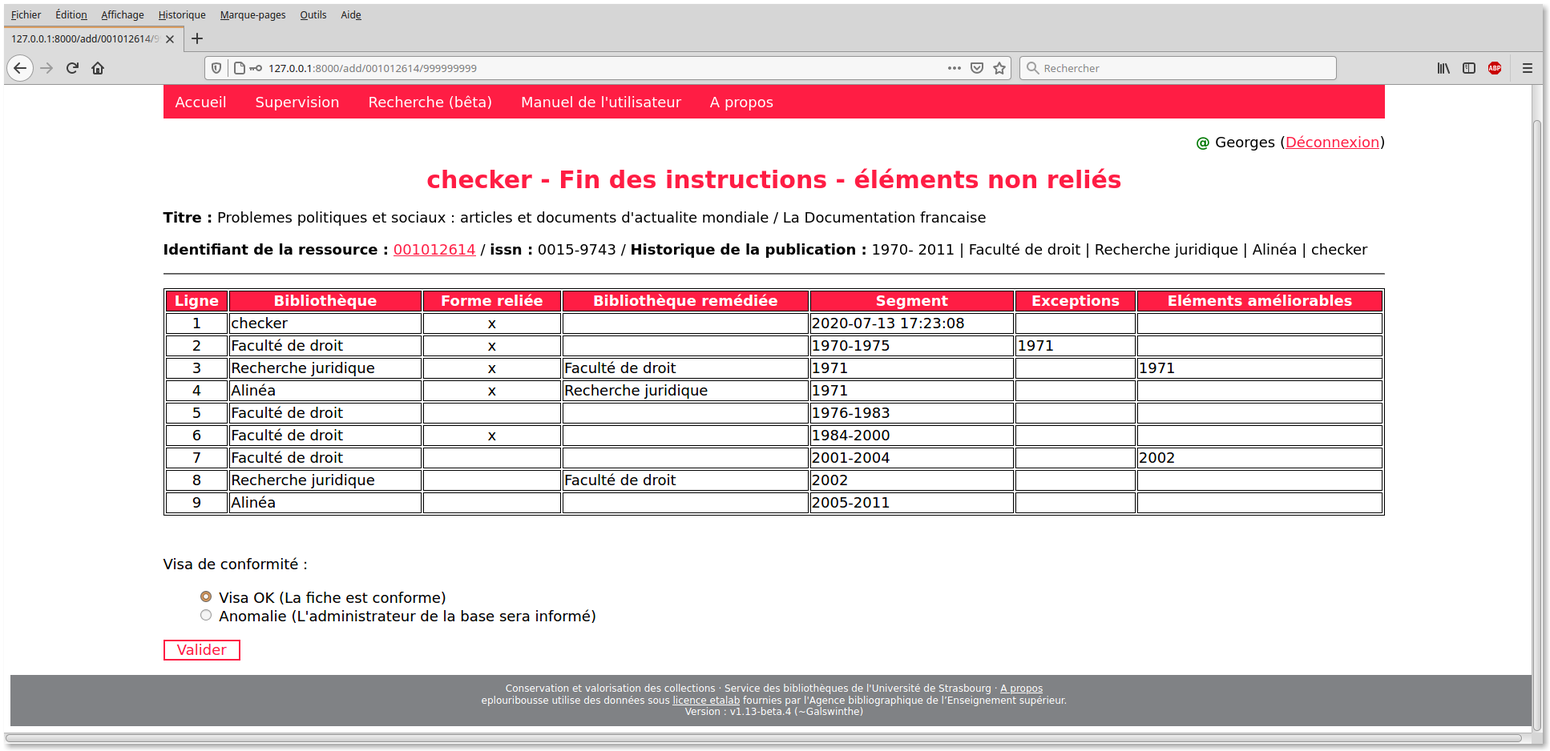
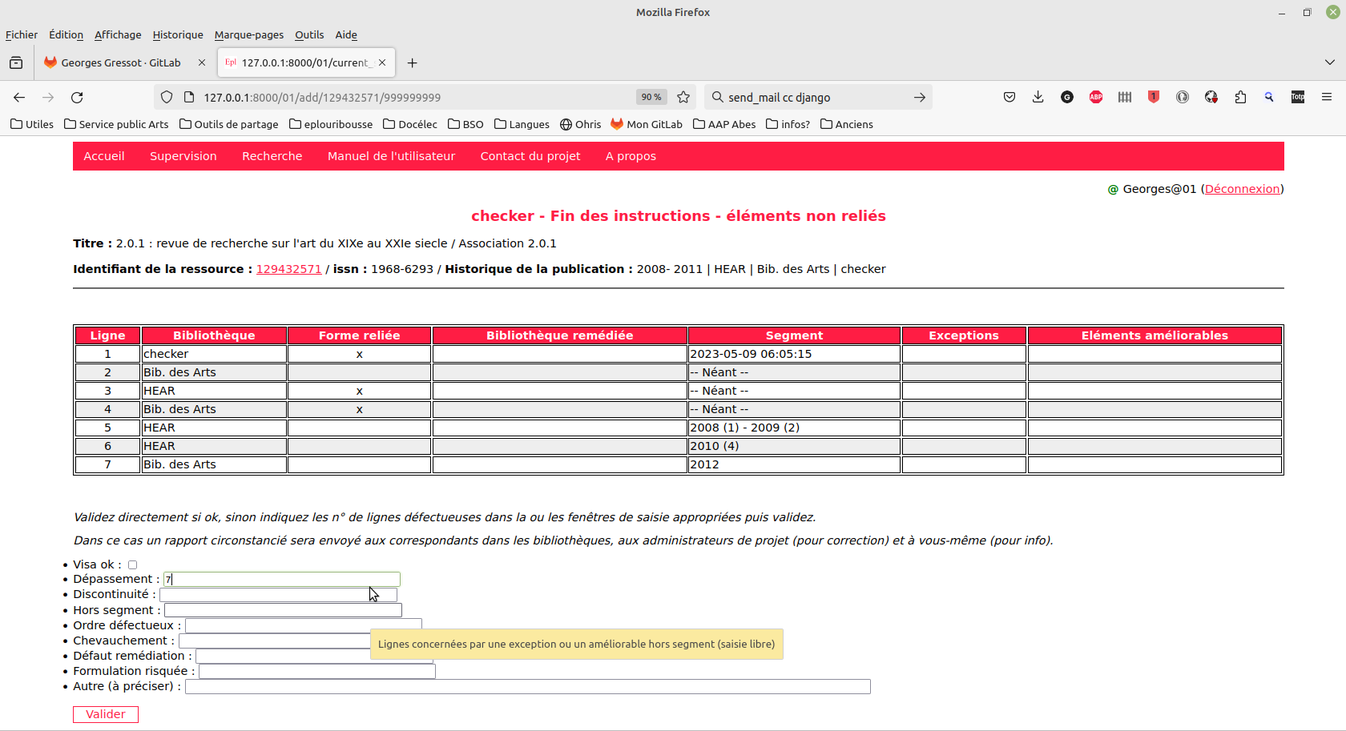
ticket #55

diff --git a/static/doc/html/searchindex.js b/static/doc/html/searchindex.js
@@ -1,1 +1,1 @@
-Search.setIndex({"docnames": ["0", "1", "2", "3", "3_1", "3_2", "3_3", "3_4", "4", "5", "6", "index"], "filenames": ["0.rst", "1.rst", "2.rst", "3.rst", "3_1.rst", "3_2.rst", "3_3.rst", "3_4.rst", "4.rst", "5.rst", "6.rst", "index.rst"], "titles": ["Pr\u00e9ambule", "Pr\u00e9sentation g\u00e9n\u00e9rale", "Pages d\u2019accueil", "Fonctionnalit\u00e9s", "Positionnement", "Arbitrage", "Instruction", "Edition", "Suivi de projet", "Administration", "Langues", "Documentation d\u2019eplouribousse"], "terms": {"eplouribouss": [0, 1, 9], "appliqu": [0, 1, 2, 9, 10, 11], "web": [0, 11], "destin": 0, "facilit": [0, 11], "d\u00e9doublon": [0, 1, 11], "p\u00e9riod": [0, 1, 6, 9], "Elle": 0, "a": [0, 1, 2, 4, 5, 6, 9], "d\u00e9velopp": 0, "cour": [0, 1, 2, 4, 6, 8, 9], "mis": [0, 4, 6, 7, 9], "oeuvr": 0, "univers": 0, "strasbourg": [0, 9], "Ce": [0, 4, 6], "adress": [0, 2, 4, 8, 9], "utilis": [0, 1, 2, 4, 6, 8, 10, 11], "Il": [0, 1, 4, 5, 6, 7, 8, 9], "comprend": 0, "pr\u00e9sent": [0, 2, 3, 9, 11], "g\u00e9n\u00e9ral": [0, 6, 11], "architectur": 0, "m\u00e9thod": [0, 1], "princip": [0, 11], "\u0153uvr": [0, 1], "fonctionnal": [0, 2, 4, 9, 11], "mani": [0, 1, 6, 9, 10], "Les": [0, 1, 2, 4, 6, 7, 8, 9], "cop": [0, 4, 9], "\u00e9cran": 0, "peuvent": [0, 1, 2, 6, 7, 9], "correspondr": [0, 6], "total": 0, "derni": [0, 4, 6, 7, 8, 9], "version": 0, "cel": [0, 3, 4, 6, 8, 9], "san": [0, 1, 8, 9], "cons\u00e9quent": 0, "Au": [0, 9], "sein": 0, "projet": [0, 1, 4, 11], "particuli": [0, 8, 9], "pens": [0, 9], "list": [0, 2, 3, 4, 5, 6, 9, 11], "diffus": [0, 2, 9], "accessibl": [0, 8, 9, 10], "depuis": [0, 7, 8, 9], "pag": [0, 1, 4, 5, 6, 7, 8, 9, 10, 11], "accueil": [0, 4, 5, 6, 7, 8, 9, 10, 11], "Pour": [0, 1, 8, 9], "plus": [0, 1, 2, 4, 7, 9], "larg": 0, "non": [0, 1, 2, 4, 6, 8, 9], "li": [0, 9], "forum": 0, "attendr": [1, 3, 9], "\u00eatre": [1, 2, 4, 6, 7, 8, 9], "confront": 1, "satur": 1, "espac": 1, "stockag": [1, 9], "biblioth\u00e9cair": 1, "pr\u00e9occup": 1, "bon": [1, 6, 9], "gestion": [1, 11], "Le": [1, 2, 4, 5, 6, 8, 9, 10], "d\u00e9sherbag": 1, "collect": [1, 4, 5, 6, 7, 8, 9], "fait": [1, 2, 4, 6, 9], "part": [1, 2, 4, 6, 9, 10], "premi": [1, 5, 6, 7, 9], "chef": 1, "doublon": [1, 4], "\u00e9gard": 1, "savent": 1, "bien": [1, 4, 5, 6, 7], "efficac": [1, 9], "autr": [1, 3, 4, 5, 6, 7, 8, 9, 10], "typ": [1, 9], "docu": 1, "imprim": 1, "con\u00e7u": 1, "aid": [1, 2, 9, 10], "instruir": [1, 6, 9], "dan": [1, 2, 3, 4, 5, 6, 7, 9, 10, 11], "ensembl": [1, 2, 3, 4, 6, 7, 9, 11], "bibliothequ": [1, 2, 3, 4, 5, 6, 7, 8, 9, 11], "Un": [1, 2, 4, 8, 9], "pet": 1, "mot": [1, 2, 9], "tout": [1, 2, 3, 4, 5, 6, 9, 10, 11], "abord": 1, "concern": [1, 4, 9], "nom": [1, 2, 6, 7, 8, 9], "C": [1, 2, 9], "form": [1, 6], "franchouillard": 1, "d\u00e9but": [1, 3, 4, 6, 8, 9], "express": 1, "latin": 1, "e": [1, 4, 9], "plvribv": 1, "vnvm": 1, "dont": [1, 4, 6, 7, 8, 9], "traduct": [1, 10], "litt\u00e9ral": 1, "ser": [1, 2, 4, 6, 9, 10], "plusieur": [1, 4, 9], "pr\u00e9cis": 1, "permet": [1, 2, 4, 8, 9], "r\u00e9alis": [1, 9], "agit": [1, 9], "revu": [1, 11], "candidat": [1, 3, 8], "reconstitu": 1, "seul": [1, 2, 6, 9], "uniqu": [1, 4, 6, 9], "auss": [1, 6], "complet": [1, 3, 6, 7, 8, 9], "reli": [1, 6, 8, 9], "possibl": [1, 2, 3, 4, 5, 6, 7, 8, 9], "\u00e9l\u00e9ment": [1, 2, 4, 6, 8, 9], "\u00e9par": 1, "disposent": 1, "particip": [1, 6, 7, 9], "oper": [1, 4], "moteur": 1, "desserv": 1, "jusqu": [1, 6, 9], "100": 1, "chacun": [1, 3, 9], "support": 1, "bas": [1, 4, 6, 8, 11], "nomm": 1, "model": 1, "db": [1, 9], "o\u00f9": [1, 4, 6, 7, 8, 9], "suit": [1, 4], "deux": [1, 5, 6, 8, 9, 10], "chiffr": [1, 8, 9], "i": [1, 4, 9], "00": [1, 8], "99": [1, 4, 8], "dit": [1, 3, 9], "opposit": 1, "central": [1, 4], "sert": 1, "quant": [1, 4], "authentif": [1, 11], "commun": [1, 9], "L": [1, 4, 5, 6, 7, 8, 9, 10], "acces": [1, 4, 5, 6, 7, 8, 9], "lien": [1, 2, 4, 5, 6, 8, 9, 10], "renvoi": [1, 4, 9], "doit": [1, 4, 6, 9], "selon": [1, 8, 9], "cibl": 1, "libr": [1, 9], "autoris": [1, 9], "elles": [1, 3, 9], "strict": 1, "requis": [1, 4, 9], "cas": [1, 4, 5, 6, 7, 9], "modif": [1, 6, 9], "peut": [1, 4, 6, 8, 9], "r\u00e9sult": [1, 3, 6, 8, 9, 11], "appel": [1, 2, 5, 8, 9], "exig": 1, "simpl": [1, 4, 9, 10], "\u00e9dit": [1, 2, 3, 6, 7, 8, 9], "administr": [1, 2, 4, 6, 11], "sp\u00e9cif": [1, 8], "modul": [1, 2], "consult": 1, "ouvert": 1, "tous": [1, 6, 8, 9], "Nous": 1, "parton": 1, "hypothes": 1, "polit": [1, 6], "documentair": 1, "suiv": [1, 2, 3, 4, 6, 9, 11], "reconstituent": 1, "conservent": 1, "constitu": 1, "mer": [1, 4, 5, 6, 7, 8], "import": [1, 4, 7, 11], "d\u00e9tenu": 1, "La": [1, 2, 4, 6, 9, 11], "comparaison": 1, "qualit": [1, 6], "reliur": [1, 6], "entre": [1, 3, 4, 8, 9, 11], "id\u00e9": [1, 6, 11], "sous": [1, 4, 8], "jacent": 1, "garant": 1, "normal": [1, 6], "absenc": [1, 5], "lacun": [1, 6, 9], "volum": [1, 6], "risqu": 1, "conserv": [1, 6], "moindr": 1, "relativis": 1, "car": 1, "mieux": [1, 9], "arriv": [1, 6, 8], "mal": [1, 6], "puissent": 1, "avantag": [1, 6], "remplac": [1, 6, 9], "fascicul": [1, 6], "couvr": [1, 6], "\u00e9quivalent": [1, 6], "Ces": [1, 2, 3, 9, 10], "trait": [1, 3, 9], "\u00e9pargn": 1, "examen": 1, "revanch": 1, "pr\u00e9par": 1, "recomposit": 1, "temp": [1, 4, 7, 8], "voulu": [1, 4], "impliqu": [1, 7, 9], "On": [1, 2], "aur": [1, 9], "reconnu": [1, 9], "l\u00e0": 1, "action": [1, 2, 4, 5, 8, 9], "cons\u00e9cut": 1, "D": 1, "possed": [1, 4, 6, 9], "susceptibl": 1, "doivent": [1, 4, 6, 9], "position": [1, 2, 3, 5, 6, 8, 9, 11], "rang": [1, 4, 5, 8, 9], "stad": [1, 4], "\u00e9gal": [1, 4, 9], "d\u00e9clar": [1, 4, 6], "fair": [1, 9, 11], "concurrenc": 1, "donc": [1, 3, 4, 6, 9], "exclu": [1, 8, 9], "motif": [1, 4, 9], "d\u00e9pendent": 1, "situat": [1, 4, 5, 9], "signalon": 1, "titr": [1, 8, 9, 10], "exempl": [1, 2, 6, 9], "d\u00e9p\u00f4t": [1, 9], "l\u00e9gal": 1, "venon": 1, "d\u00e9finit": 1, "trivial": 1, "Est": 1, "publiqu": [1, 3, 4, 6, 9], "moin": [1, 9], "Une": [1, 6, 9], "indispens": 1, "Par": [1, 2, 6, 8], "entend": [1, 6], "unit": 1, "identifi": [1, 2, 5, 7, 9], "serial": 1, "correspond": [1, 4, 9], "toujour": [1, 9], "m\u00eam": [1, 2, 3, 4, 6, 9], "entendu": 1, "sen": 1, "cot": [1, 8, 9], "class": [1, 2], "partition": 1, "exist": 1, "assum": 1, "si": [1, 2, 3, 4, 8, 9], "veut": 1, "mettr": 1, "Cette": [1, 4, 6, 8, 9], "proced": 1, "choix": [1, 2, 9], "parm": 1, "possibil": [1, 4, 8, 9], "viabl": 1, "moyen": 1, "grand": 1, "\u00e9chel": [1, 4], "convaincr": 1, "consider": [1, 5, 6, 7, 8, 9], "or": 1, "faut": [1, 6, 8, 9], "absolu": 1, "entendr": [1, 6], "r\u00e9glementair": 1, "exploit": [1, 9], "sourc": 1, "r\u00e9cuper": 1, "sudoc": [1, 4], "sauf": [1, 8], "indiqu": [1, 2, 4, 5, 6, 7, 8, 9], "contrair": [1, 2, 6], "licenc": 1, "etalab": 1, "instanc": [1, 11], "conviendr": 1, "assur": [1, 6], "jeu": 1, "nouveau": [2, 9], "d\u00e9tect": 2, "automat": [2, 4, 6, 9], "lor": [2, 4, 6, 7, 8, 9], "S": [2, 9], "point": [2, 9], "direct": [2, 4, 6, 9], "celui": [2, 9], "ci": [2, 4, 5, 9], "sinon": [2, 4], "chois": [2, 4], "lequel": 2, "appr\u00eat": 2, "travaill": [2, 9], "num\u00e9ro": [2, 6, 8, 9], "lorsqu": [2, 6, 9], "longu": 2, "acced": [2, 4, 9], "souhait": [2, 6, 7, 9], "tap": 2, "mention": [2, 4, 6, 9], "arbitrag": [2, 3, 8, 9, 11], "instruct": [2, 3, 4, 7, 8, 11], "Des": 2, "contr\u00f4l": [2, 8, 11], "effectu": [2, 4, 9], "emp\u00each": 2, "hor": 2, "del": 2, "cliqu": [2, 4, 5, 6, 7, 9], "re\u00e7u": 2, "pr\u00e9c\u00e9dent": [2, 4, 6, 8, 9], "recour": 2, "flech": 2, "retour": [2, 4, 8], "navig": [2, 8], "disponibl": [2, 4, 9], "ver": [2, 4, 9], "outil": [2, 4, 8], "recherch": [2, 9], "ppn": [2, 4, 5, 6, 8, 9], "tableau": [2, 11], "supervis": [2, 8], "manuel": 2, "chang": [2, 10], "votr": [2, 4, 5, 6, 7, 9], "pass": [2, 9], "r\u00e9serv": [2, 4], "droit": [2, 4, 9], "langu": [2, 11], "niveau": [2, 3, 9], "calcul": [2, 4, 8], "\u00e9ventuel": [2, 9], "afin": 2, "anomal": [2, 9], "enregistr": [2, 6, 11], "alor": [2, 8], "email": [2, 9], "signal": [2, 6, 9], "messag": [2, 4, 6, 9], "alert": [2, 4, 6, 9], "couleur": 2, "bleu": 2, "ouvr": [2, 4], "formulair": [2, 4, 8, 9], "figur": [2, 5, 9], "ger": [2, 9], "respons": 2, "pr\u00e9vu": [2, 6, 9], "voir": [2, 4, 9], "loin": [2, 4], "demand": 2, "ajout": 2, "suppress": [2, 6, 9], "contact": [2, 6, 9], "inscrit": 2, "offic": 2, "supprim": [2, 4, 6, 9], "ordre": [3, 4, 8, 11], "sais": [3, 4, 7, 9, 11], "am\u00e9lior": [3, 4, 11], "rem\u00e9di": [3, 11], "r\u00f4l": [3, 11], "check": [3, 9, 11], "edit": [3, 11], "filtr": [3, 5, 8, 11], "fich": [3, 4, 5, 6, 8, 9, 11], "export": [3, 8, 11], "format": [3, 8, 11], "pdf": [3, 11], "appliquent": 3, "n\u00e9cessair": [3, 4, 5, 9], "instruit": [3, 6, 7, 9], "bout": 3, "chaqu": [3, 6, 9], "individuel": 3, "laiss": [3, 4, 9], "suspen": 3, "\u00e9tap": 4, "avant": [4, 6, 9], "fois": [4, 6, 9], "deviennent": 4, "pertinent": [4, 9], "s\u00e9lection": [4, 5, 6, 7], "puis": [4, 5, 6, 7, 9], "valid": [4, 5, 6, 7, 9], "r\u00e9sultat": [4, 5, 6, 8], "ressourc": [4, 5, 6, 7, 8, 9], "attent": [4, 8, 9], "restreindr": [4, 6], "obten": [4, 7, 8, 9], "encor": [4, 9], "modifi": [4, 6, 8, 9], "condit": [4, 9], "\u00e9tat": [4, 6, 9], "initial": [4, 9], "pouv": [4, 6], "exclur": 4, "d\u00e9roul": 4, "valeur": 4, "comment": [4, 9], "dev": 4, "1": [4, 5, 6, 8, 9], "4": [4, 9], "ressent": 4, "comm": [4, 6, 7, 9], "laquel": [4, 6], "viendront": 4, "agreg": 4, "enrich": 4, "tres": 4, "peu": 4, "2": [4, 9], "3": [4, 9], "interm\u00e9diair": 4, "suivr": 4, "arbitrair": 4, "En": [4, 9], "clef": 4, "primair": 4, "rattach": [4, 6, 11], "primary": 4, "key": 4, "pk": 4, "inform": [4, 6, 8], "util": [4, 8, 9], "cliquabl": [4, 9], "notic": 4, "pourr": [4, 9], "serv": [4, 9], "v\u00e9rifi": [4, 6, 9], "num\u00e9ros": 4, "prec": 4, "fin": [4, 6, 8, 9], "ains": 4, "filiat": 4, "p\u00e9riscop": 4, "visualis": 4, "compar": 4, "discuss": 4, "mail": [4, 9], "\u00e9chang": 4, "parcimoni": 4, "conseil": [4, 9], "destinatair": [4, 9], "principal": [4, 8, 9], "ceux": [4, 9], "info": 4, "instructeur": [4, 6, 9], "objet": 4, "port": [4, 6, 9], "corp": 4, "Vous": 4, "commentair": 4, "not": 4, "\u00e9larg": 4, "fen\u00eatr": [4, 7], "coin": 4, "nb": [4, 9], "connexion": 4, "t\u00e9moin": 4, "appara\u00eet": 4, "haut": [4, 7], "gauch": 4, "d\u00e9connect": 4, "crucial": 4, "don": [4, 6, 8, 11], "local": 4, "annul": 4, "lign": [4, 6, 7, 9, 10], "apres": [4, 6, 9], "rappel": 4, "session": 4, "rien": [4, 6], "clic": 4, "lesquel": [4, 6, 7], "moment": [4, 6, 8], "d\u00e9j\u00e0": [4, 9], "D\u00e8s": 4, "x": 4, "activ": [4, 9], "envoi": [4, 9], "revendiquent": 5, "posit": 5, "pris": [5, 6, 9], "aucun": [5, 9], "revendiqu": [5, 6, 9], "dessus": 5, "concurrent": 5, "revend": 5, "attendu": 5, "r\u00e9vis": 5, "\u00e9ch\u00e9": [5, 6, 9], "obtenu": [5, 6, 7, 8], "devient": 6, "d\u00e8s": [6, 9], "divers": [6, 9], "commenc": 6, "segment": 6, "continus": 6, "except": [6, 9], "pres": 6, "dessous": 6, "inser": 6, "nouvel": 6, "logiqu": 6, "chronolog": 6, "bord": [6, 11], "recouvrent": 6, "comprennent": 6, "contributric": 6, "pr\u00e9fer": 6, "d\u00e9fectu": 6, "term": 6, "cec": [6, 9], "problem": 6, "d\u00e9licat": 6, "solut": [6, 9], "relev": [6, 9], "renseign": [6, 9], "obligatoir": 6, "integr": [6, 9], "\u00e9vident": [6, 7, 8, 9], "contribu": [6, 9], "coch": 6, "n\u00e9": 6, "sp\u00e9cifi": 6, "compt": [6, 9], "propr": [6, 9], "distingu": [6, 9], "effet": [6, 9], "confirm": 6, "avoir": [6, 9], "soin": 6, "exactitud": 6, "recevr": 6, "avert": 6, "tour": [6, 9], "venu": [6, 9], "cycl": [6, 8, 9], "second": [6, 9], "v\u00e9rif": [6, 8, 9], "vis": [6, 9], "invalid": 6, "d\u00e9croiss": 6, "concour": 6, "mauv": 6, "quelqu": [6, 9], "chos": [6, 9], "optimal": 6, "cf": [6, 9], "regl": [6, 9], "facult": 6, "phas": 6, "el\u00e9ment": 6, "forc": 6, "v\u00e9rit": 6, "d\u00e9grad": 6, "sait": 6, "meilleur": 6, "rar": 6, "comprom": 6, "contenu": 6, "mesur": [6, 9], "physiqu": 6, "Leur": 6, "limit": [6, 9], "ailleur": 6, "couvrent": 6, "outrepass": 6, "comportent": 6, "interrompus": 6, "champ": [6, 9], "font": 6, "decr": 6, "ordon": 6, "chevauchent": 6, "correct": [6, 11], "lisibl": 6, "coh\u00e9rent": 6, "formul": 6, "proven": 6, "diff\u00e9rent": [6, 9], "footnot": 6, "Ou": 6, "trois": [6, 9], "De": [6, 11], "contr\u00f4leur": 6, "checker": 6, "fonction": [7, 8], "d\u00e9tient": 7, "ast\u00e9risqu": 7, "natur": 7, "rapport": 7, "soign": 7, "propos": [7, 8, 10], "instant": 8, "d\u00e9doubl": 8, "tel": [8, 9], "origin": [8, 10, 11], "\u00e9cart": 8, "compr": [8, 9], "donnent": 8, "encour": 8, "exclus": [8, 9], "occurrent": 8, "etc": [8, 9], "d\u00e9faut": [8, 9], "affich": 8, "alphabet": 8, "perm": 8, "d\u00e9di": 8, "pr\u00e9vaut": 8, "ip": 8, "client": 8, "connect": 8, "about": [8, 9], "csv": [8, 9], "_typedeliste_rcr_autrercr": 8, "nombr": [8, 9], "24": [], "typedel": 8, "signif": 8, "rk": 8, "xrk": 8, "mrk": 8, "arb": 8, "xarb": 8, "arb1": 8, "arb0": 8, "x1arb": 8, "x0arb": 8, "instr": 8, "xinstr": 8, "instr1b": 8, "instrxb": 8, "instr1nb": 8, "instrxnb": 8, "re": 8, "resm": 8, "resnm": 8, "xmoth": 8, "xnomoth": 8, "excl": 8, "faulty": 8, "erron": [8, 9], "all": 8, "originel": 8, "puiss": [8, 9], "entier": [8, 9], "clair": [8, 9], "fichi": [8, 9, 10], "incomplet": [8, 10], "requ\u00eat": 8, "trop": 8, "volumin": 8, "serveur": 8, "retourn": 8, "cod": [8, 9], "erreur": 8, "bandeau": [], "ent\u00eat": [], "conna\u00eetr": [], "rebond": [], "lectur": [8, 9], "popul": 9, "utilitair": 9, "manipul": 9, "recommandon": 9, "brows": 9, "for": 9, "sqlit": 9, "tabl": 9, "http": 9, "sqlitebrows": 9, "org": 9, "contient": [9, 11], "epl_replymail": 9, "django": 9, "situ": 9, "9": 9, "epl_bddadmin": 9, "epl_exclu": 9, "epl_featur": 9, "epl_instruct": 9, "epl_itemrecord": 9, "epl_library": 9, "epl_proj_setting": 9, "epl_project": 9, "epl_utilis": 9, "system": 9, "interfac": 9, "plac": 9, "exemplair": 9, "fourn": 9, "\u00e9labor": 9, "racin": 9, "txt": 9, "voic": 9, "quoi": [9, 11], "superflu": 9, "dat": 9, "vid": 9, "descr": 9, "initialis": 9, "recens": 9, "coupl": 9, "permiss": 9, "pr\u00e9vaudr": 9, "outr": 9, "suffix": 9, "agiss": 9, "no": 9, "reply": 9, "sit": [9, 11], "respect": 9, "deuxiem": 9, "d\u00e9part": 9, "user": 9, "superus": 9, "statut": 9, "is_superus": 9, "rest": 9, "peupl": 9, "synchronis": 9, "cr\u00e9ation": 9, "vu": 9, "admins_adm": 9, "lib_adm": 9, "selectbdd": 9, "hom": 9, "globadm": 9, "multipl": 9, "permettent": 9, "prendr": 9, "facil": [9, 10], "consist": 9, "regroup": 9, "argument": 9, "s\u00e9par": 9, "tir": 9, "r\u00e9el": 9, "art": 9, "bnu": 9, "doubl": 9, "aachen": 9, "kunstblatt": 9, "03963115x": 9, "issn": 9, "05150612": 9, "histor": 9, "1906": 9, "9999": 9, "bh": 9, "16": 9, "37": 9, "501": 9, "883": 9, "etat": 9, "vol": 9, "10": 9, "1916": 9, "17": 9, "1958": 9, "18": 9, "1959": 9, "26": [8, 9], "1962": 9, "34": 9, "1967": 9, "38": 9, "1969": 9, "47": 9, "1976": 9, "77": 9, "1968": 9, "relat": 9, "devront": 9, "cr\u00e9": 9, "aut": 9, "altern": 9, "674821001": 9, "674821001a": 9, "674821001b": 9, "periscop": 9, "affect": 9, "tant": 9, "rcr": 9, "14": 9, "mar": 9, "2023": 9, "privil\u00e9gi": 9, "ext\u00e9rieur": 9, "toutefois": 9, "pr\u00e9alabl": 9, "mod": 9, "priv": 9, "d\u00e9sactiv": 9, "idem": 9, "r\u00e9part": 9, "travail": 9, "magasin": 9, "parit": 9, "pair": 9, "ellips": 9, "partag": 9, "scind": 9, "occup": 9, "parametr": 9, "d\u00e9tail": 9, "lir": 9, "g\u00e9ner": 9, "noreply": 9, "replymail": 9, "gestionnair": 9, "transmet": 9, "flambeau": 9, "extract": 9, "rel\u00e8vent": 9, "intitul": 9, "r\u00e9sum": 9, "pourront": 9, "d\u00e9taillon": 9, "ad": 9, "hoc": 9, "n\u00e9cessitent": 9, "expliqu": 9, "d\u00e9taill": 9, "cadr": 9, "r\u00e9initialis": 9, "recommand": [6, 9], "d\u00e9fin": 9, "d\u00e9coch": 9, "pr\u00e9d\u00e9fin": 9, "restaur": 9, "offert": 9, "recevront": 9, "compris": 9, "surven": 9, "triplon": 9, "occas": 9, "re\u00e7oivent": 9, "avis": 9, "restreint": 9, "passag": 9, "public": 9, "occasion": 9, "actif": 9, "quand": 9, "incoh\u00e9rent": 9, "devr": 9, "incrimin": 9, "host": 9, "current_status": 9, "crois": [8, 9], "sid": [], "reper": [], "r\u00e9curs": 9, "attribu": 9, "itemrecord": 9, "6": 9, "0": 9, "admin": [], "Cet": 9, "certain": 9, "processus": 9, "5": 9, "conform": 9, "potentiel": [], "ensuit": [], "1er": [], "fauss": [], "caus": [], "dysfonction": [], "g\u00ean": [], "dout": [], "intempest": 9, "url": 9, "rejet": 9, "soumis": 9, "pert": 9, "soupl": 9, "pbkdf2": 9, "doc": 9, "djangoproject": 9, "com": 9, "topic": 9, "auth": 9, "password": 9, "sensibl": 9, "n\u00e9gat": 9, "r\u00e9orient": 9, "dehor": 9, "paged": [], "pied": 9, "renvoient": 9, "syst\u00e9mat": 9, "proteg": 9, "contr": 9, "robot": 9, "captch": 9, "ultralight": 9, "attaqu": 9, "malveil": 9, "appropri": 9, "cach": 9, "del\u00e0": 9, "webmaster": 9, "distinct": 9, "gettext": 10, "franc": 10, "actuel": 10, "exp\u00e9rimental": 10, "anglais": 10, "allemand": 10, "extens": 10, "assez": 10, "puisqu": 10, "repos": 10, "fournitur": 10, "classiqu": 10, "po": 10, "compr\u00e9hensibl": 10, "traducteur": 10, "compil": 10, "command": 10, "binair": 10, "mo": 10, "bienvenu": 10, "e\u02c8plu\u02d0r\u026ab\u028a": 11, "jet": 11, "coup": 11, "oeil": 11, "strasbourgeois": 11, "pr\u00e9ambul": 11, "Que": 11, "guid": 11, "entraid": 11, "parl": 11, "aspect": 11, "jurid": 11, "r\u00e9utilis": 11, "r\u00e9glag": 11, "group": 11, "webmast": 11, "s\u00e9cur": 11, "confidential": 11, "fa\u00e7on": 9, "corrig": 9, "bouton": 9, "recalcul": 9, "vaut": 9, "carr": 9, "apparaissent": 9, "\u00eate": 9, "redirig": 9, "savoir": 9, "cross": 8, "avanc": 8, "multicriter": 11}, "objects": {}, "objtypes": {}, "objnames": {}, "titleterms": {"pr\u00e9ambul": 0, "origin": 0, "Que": 0, "contient": 0, "guid": 0, "entraid": 0, "pr\u00e9sent": [1, 7], "g\u00e9n\u00e9ral": [1, 2, 9], "De": 1, "quoi": 1, "parl": 1, "princip": 1, "aspect": 1, "jurid": 1, "r\u00e9utilis": 1, "don": [1, 9], "pag": 2, "accueil": 2, "projet": [2, 8, 9], "fonctionnal": [3, 8], "position": 4, "arbitrag": 5, "instruct": [6, 9], "sais": 6, "ordre": 6, "am\u00e9lior": 6, "rem\u00e9di": 6, "r\u00f4l": [6, 9], "check": 6, "edit": 7, "list": [7, 8], "r\u00e9sult": 7, "filtr": 7, "fich": 7, "export": 7, "format": 7, "pdf": 7, "suiv": 8, "La": 8, "tout": 8, "recherch": [8, 11], "dan": 8, "typ": 8, "disponibl": 8, "crois": [], "tableau": 8, "bord": 8, "administr": 9, "r\u00e9glag": 9, "bas": 9, "import": 9, "utilis": 9, "group": 9, "instanc": 9, "webmast": 9, "gestion": 9, "correct": 9, "enregistr": 9, "rattach": 9, "contr\u00f4l": 9, "s\u00e9cur": 9, "authentif": 9, "confidential": 9, "langu": 10, "document": 11, "eplouribouss": 11, "sommair": 11, "mot": 11, "multicriter": 8}, "envversion": {"sphinx.domains.c": 2, "sphinx.domains.changeset": 1, "sphinx.domains.citation": 1, "sphinx.domains.cpp": 8, "sphinx.domains.index": 1, "sphinx.domains.javascript": 2, "sphinx.domains.math": 2, "sphinx.domains.python": 3, "sphinx.domains.rst": 2, "sphinx.domains.std": 2, "sphinx": 57}, "alltitles": {"Pr\u00e9ambule": [[0, "preambule"]], "Origine": [[0, "origine"]], "Que contient ce guide\u00a0?": [[0, "que-contient-ce-guide"]], "Entraide": [[0, "entraide"]], "Pr\u00e9sentation g\u00e9n\u00e9rale": [[1, "presentation-generale"]], "De quoi parle-t-on ?": [[1, "de-quoi-parle-t-on"]], "Principes": [[1, "principes"]], "Aspects juridiques (R\u00e9utilisation des donn\u00e9es)": [[1, "aspects-juridiques-reutilisation-des-donnees"]], "Pages d\u2019accueil": [[2, "pages-d-accueil"]], "Page d\u2019accueil g\u00e9n\u00e9rale": [[2, "page-d-accueil-generale"]], "Page d\u2019accueil d\u2019un projet": [[2, "page-d-accueil-d-un-projet"]], "Fonctionnalit\u00e9s": [[3, "fonctionnalites"]], "Positionnement": [[4, "positionnement"]], "Arbitrage": [[5, "arbitrage"]], "Edition": [[7, "edition"]], "Liste des r\u00e9sultantes": [[7, "liste-des-resultantes"]], "Filtre": [[7, "filtre"]], "Pr\u00e9sentation des fiches": [[7, "presentation-des-fiches"]], "Export au format pdf": [[7, "export-au-format-pdf"]], "Langues": [[10, "langues"]], "Documentation d\u2019eplouribousse": [[11, "documentation-d-eplouribousse"]], "Sommaire": [[11, "sommaire"]], "Recherche par mots": [[11, "recherche-par-mots"]], "Administration": [[9, "administration"]], "R\u00e9glages des bases de donn\u00e9es (important)": [[9, "reglages-des-bases-de-donnees-important"]], "Utilisateurs et groupes": [[9, "utilisateurs-et-groupes"]], "R\u00f4le de l\u2019administrateur g\u00e9n\u00e9ral de l\u2019instance (webmaster)": [[9, "role-de-ladministrateur-general-de-linstance-webmaster"]], "R\u00f4les des administrateurs de projet (= administrateurs de la base de donn\u00e9es du projet)": [[9, "roles-des-administrateurs-de-projet-administrateurs-de-la-base-de-donnees-du-projet"]], "Gestion des r\u00e9glages du projet": [[9, "gestion-des-reglages-du-projet"]], "Correction des enregistrements (instructions et rattachements)": [[9, "correction-des-enregistrements-instructions-et-rattachements"]], "Contr\u00f4les": [[9, "controles"]], "S\u00e9curit\u00e9": [[9, "securite"]], "Authentification": [[9, "authentification"]], "Confidentialit\u00e9": [[9, "confidentialite"]], "Instruction": [[6, "instruction"]], "Saisie": [[6, "saisie"]], "Ordre d\u2019am\u00e9lioration": [[6, "ordre-damelioration"]], "Rem\u00e9diation": [[6, "remediation"]], "R\u00f4le du \u201cchecker\u201d": [[6, "role-du-checker"]], "Suivi de projet": [[8, "suivi-de-projet"]], "La fonctionnalit\u00e9 \u00ab\u00a0tout\u00a0\u00bb": [[8, "la-fonctionnalite-tout"]], "Recherche dans les listes": [[8, "recherche-dans-les-listes"]], "listes types disponibles": [[8, "id1"]], "Recherche multicrit\u00e8re": [[8, "recherche-multicritere"]], "Tableau de bord": [[8, "tableau-de-bord"]]}, "indexentries": {}})
+Search.setIndex({"docnames": ["0", "1", "2", "3", "3_1", "3_2", "3_3", "3_4", "4", "5", "6", "index"], "filenames": ["0.rst", "1.rst", "2.rst", "3.rst", "3_1.rst", "3_2.rst", "3_3.rst", "3_4.rst", "4.rst", "5.rst", "6.rst", "index.rst"], "titles": ["Pr\u00e9ambule", "Pr\u00e9sentation g\u00e9n\u00e9rale", "Pages d\u2019accueil", "Fonctionnalit\u00e9s", "Positionnement", "Arbitrage", "Instruction", "Edition", "Suivi de projet", "Administration", "Langues", "Documentation d\u2019eplouribousse"], "terms": {"eplouribouss": [0, 1, 9], "appliqu": [0, 1, 2, 9, 10, 11], "web": [0, 11], "destin": 0, "facilit": [0, 11], "d\u00e9doublon": [0, 1, 11], "p\u00e9riod": [0, 1, 6, 9], "Elle": 0, "a": [0, 1, 2, 4, 5, 6, 9], "d\u00e9velopp": 0, "cour": [0, 1, 2, 4, 6, 8, 9], "mis": [0, 4, 6, 7, 9], "oeuvr": 0, "univers": 0, "strasbourg": [0, 9], "Ce": [0, 4, 6], "adress": [0, 2, 4, 8, 9], "utilis": [0, 1, 2, 4, 6, 8, 10, 11], "Il": [0, 1, 4, 5, 6, 7, 8, 9], "comprend": 0, "pr\u00e9sent": [0, 2, 3, 9, 11], "g\u00e9n\u00e9ral": [0, 6, 11], "architectur": 0, "m\u00e9thod": [0, 1], "princip": [0, 11], "\u0153uvr": [0, 1], "fonctionnal": [0, 2, 4, 9, 11], "mani": [0, 1, 6, 9, 10], "Les": [0, 1, 2, 4, 6, 7, 8, 9], "cop": [0, 4, 6, 9], "\u00e9cran": 0, "peuvent": [0, 1, 2, 6, 7, 9], "correspondr": [0, 6], "total": 0, "derni": [0, 4, 6, 7, 8, 9], "version": 0, "cel": [0, 3, 4, 6, 8, 9], "san": [0, 1, 8, 9], "cons\u00e9quent": 0, "Au": [0, 9], "sein": 0, "projet": [0, 1, 4, 11], "particuli": [0, 8, 9], "pens": [0, 9], "list": [0, 2, 3, 4, 5, 6, 9, 11], "diffus": [0, 2, 9], "accessibl": [0, 8, 9, 10], "depuis": [0, 7, 8, 9], "pag": [0, 1, 4, 5, 6, 7, 8, 9, 10, 11], "accueil": [0, 4, 5, 6, 7, 8, 9, 10, 11], "Pour": [0, 1, 8, 9], "plus": [0, 1, 2, 4, 7, 9], "larg": 0, "non": [0, 1, 2, 4, 6, 8, 9], "li": [0, 9], "forum": 0, "attendr": [1, 3, 9], "\u00eatre": [1, 2, 4, 6, 7, 8, 9], "confront": 1, "satur": 1, "espac": 1, "stockag": [1, 9], "biblioth\u00e9cair": 1, "pr\u00e9occup": 1, "bon": [1, 6, 9], "gestion": [1, 11], "Le": [1, 2, 4, 5, 6, 8, 9, 10], "d\u00e9sherbag": 1, "collect": [1, 4, 5, 6, 7, 8, 9], "fait": [1, 2, 4, 6, 9], "part": [1, 2, 4, 6, 9, 10], "premi": [1, 5, 6, 7, 9], "chef": 1, "doublon": [1, 4], "\u00e9gard": 1, "savent": 1, "bien": [1, 4, 5, 6, 7], "efficac": [1, 9], "autr": [1, 3, 4, 5, 6, 7, 8, 9, 10], "typ": [1, 9], "docu": 1, "imprim": 1, "con\u00e7u": 1, "aid": [1, 2, 9, 10], "instruir": [1, 6, 9], "dan": [1, 2, 3, 4, 5, 6, 7, 9, 10, 11], "ensembl": [1, 2, 3, 4, 6, 7, 9, 11], "bibliothequ": [1, 2, 3, 4, 5, 6, 7, 8, 9, 11], "Un": [1, 2, 4, 8, 9], "pet": 1, "mot": [1, 2, 9], "tout": [1, 2, 3, 4, 5, 6, 9, 10, 11], "abord": 1, "concern": [1, 4, 6, 9], "nom": [1, 2, 6, 7, 8, 9], "C": [1, 2, 9], "form": [1, 6], "franchouillard": 1, "d\u00e9but": [1, 3, 4, 6, 8, 9], "express": 1, "latin": 1, "e": [1, 4, 9], "plvribv": 1, "vnvm": 1, "dont": [1, 4, 6, 7, 8, 9], "traduct": [1, 10], "litt\u00e9ral": 1, "ser": [1, 2, 4, 6, 9, 10], "plusieur": [1, 4, 9], "pr\u00e9cis": [1, 6], "permet": [1, 2, 4, 8, 9], "r\u00e9alis": [1, 9], "agit": [1, 9], "revu": [1, 11], "candidat": [1, 3, 8], "reconstitu": 1, "seul": [1, 2, 6, 9], "uniqu": [1, 4, 6, 9], "auss": [1, 6], "complet": [1, 3, 6, 7, 8, 9], "reli": [1, 6, 8, 9], "possibl": [1, 2, 3, 4, 5, 6, 7, 8, 9], "\u00e9l\u00e9ment": [1, 2, 4, 6, 8, 9], "\u00e9par": 1, "disposent": 1, "particip": [1, 6, 7, 9], "oper": [1, 4], "moteur": 1, "desserv": 1, "jusqu": [1, 6, 9], "100": 1, "chacun": [1, 3, 9], "support": 1, "bas": [1, 4, 8, 11], "nomm": 1, "model": 1, "db": [1, 9], "o\u00f9": [1, 4, 6, 7, 8, 9], "suit": [1, 4], "deux": [1, 5, 6, 8, 9, 10], "chiffr": [1, 8, 9], "i": [1, 4, 9], "00": [1, 8], "99": [1, 4, 8], "dit": [1, 3, 9], "opposit": 1, "central": [1, 4], "sert": 1, "quant": [1, 4], "authentif": [1, 11], "commun": [1, 9], "L": [1, 4, 5, 6, 7, 8, 9, 10], "acces": [1, 4, 5, 6, 7, 8, 9], "lien": [1, 2, 4, 5, 6, 8, 9, 10], "renvoi": [1, 4, 9], "doit": [1, 4, 6, 9], "selon": [1, 8, 9], "cibl": 1, "libr": [1, 9], "autoris": [1, 9], "elles": [1, 3, 9], "strict": 1, "requis": [1, 4, 9], "cas": [1, 4, 5, 6, 7, 9], "modif": [1, 6, 9], "peut": [1, 4, 6, 8, 9], "r\u00e9sult": [1, 3, 6, 8, 9, 11], "appel": [1, 2, 5, 8, 9], "exig": 1, "simpl": [1, 4, 9, 10], "\u00e9dit": [1, 2, 3, 6, 7, 8, 9], "administr": [1, 2, 4, 6, 11], "sp\u00e9cif": [1, 8], "modul": [1, 2], "consult": 1, "ouvert": 1, "tous": [1, 6, 8, 9], "Nous": 1, "parton": 1, "hypothes": 1, "polit": [1, 6], "documentair": 1, "suiv": [1, 2, 3, 4, 6, 9, 11], "reconstituent": 1, "conservent": 1, "constitu": 1, "mer": [1, 4, 5, 6, 7, 8], "import": [1, 4, 7, 11], "d\u00e9tenu": 1, "La": [1, 2, 4, 6, 9, 11], "comparaison": 1, "qualit": [1, 6], "reliur": [1, 6], "entre": [1, 3, 4, 8, 9, 11], "id\u00e9": [1, 6, 11], "sous": [1, 4, 8], "jacent": 1, "garant": 1, "normal": [1, 6], "absenc": [1, 5], "lacun": [1, 6, 9], "volum": [1, 6], "risqu": 1, "conserv": [1, 6], "moindr": 1, "relativis": 1, "car": 1, "mieux": [1, 9], "arriv": [1, 6, 8], "mal": [1, 6], "puissent": 1, "avantag": [1, 6], "remplac": [1, 6, 9], "fascicul": [1, 6], "couvr": [1, 6], "\u00e9quivalent": [1, 6], "Ces": [1, 2, 3, 9, 10], "trait": [1, 3, 9], "\u00e9pargn": 1, "examen": 1, "revanch": 1, "pr\u00e9par": 1, "recomposit": 1, "temp": [1, 4, 7, 8], "voulu": [1, 4], "impliqu": [1, 7, 9], "On": [1, 2], "aur": [1, 9], "reconnu": [1, 9], "l\u00e0": 1, "action": [1, 2, 4, 5, 8, 9], "cons\u00e9cut": 1, "D": 1, "possed": [1, 4, 6, 9], "susceptibl": 1, "doivent": [1, 4, 6, 9], "position": [1, 2, 3, 5, 6, 8, 9, 11], "rang": [1, 4, 5, 8, 9], "stad": [1, 4], "\u00e9gal": [1, 4, 9], "d\u00e9clar": [1, 4, 6], "fair": [1, 9, 11], "concurrenc": 1, "donc": [1, 3, 4, 6, 9], "exclu": [1, 8, 9], "motif": [1, 4, 9], "d\u00e9pendent": 1, "situat": [1, 4, 5, 9], "signalon": 1, "titr": [1, 8, 9, 10], "exempl": [1, 2, 6, 9], "d\u00e9p\u00f4t": [1, 9], "l\u00e9gal": 1, "venon": 1, "d\u00e9finit": 1, "trivial": 1, "Est": 1, "publiqu": [1, 3, 4, 6, 9], "moin": [1, 9], "Une": [1, 6, 9], "indispens": 1, "Par": [1, 2, 6, 8], "entend": [1, 6], "unit": 1, "identifi": [1, 2, 5, 7, 9], "serial": 1, "correspond": [1, 4, 9], "toujour": [1, 9], "m\u00eam": [1, 2, 3, 4, 6, 9], "entendu": 1, "sen": 1, "cot": [1, 8, 9], "class": [1, 2], "partition": 1, "exist": 1, "assum": 1, "si": [1, 2, 3, 4, 8, 9], "veut": 1, "mettr": 1, "Cette": [1, 4, 6, 8, 9], "proced": 1, "choix": [1, 2, 9], "parm": 1, "possibil": [1, 4, 8, 9], "viabl": 1, "moyen": 1, "grand": 1, "\u00e9chel": [1, 4], "convaincr": 1, "consider": [1, 5, 6, 7, 8, 9], "or": 1, "faut": [1, 6, 8, 9], "absolu": 1, "entendr": [1, 6], "r\u00e9glementair": 1, "exploit": [1, 9], "sourc": 1, "r\u00e9cuper": 1, "sudoc": [1, 4], "sauf": [1, 8], "indiqu": [1, 2, 4, 5, 6, 7, 8, 9], "contrair": [1, 2, 6], "licenc": 1, "etalab": 1, "instanc": [1, 11], "conviendr": 1, "assur": [1, 6], "jeu": 1, "nouveau": [2, 9], "d\u00e9tect": 2, "automat": [2, 4, 6, 9], "lor": [2, 4, 6, 7, 8, 9], "S": [2, 9], "point": [2, 9], "direct": [2, 4, 6, 9], "celui": [2, 9], "ci": [2, 4, 5, 9], "sinon": [2, 4], "chois": [2, 4], "lequel": 2, "appr\u00eat": 2, "travaill": [2, 9], "num\u00e9ro": [2, 6, 8, 9], "lorsqu": [2, 6, 9], "longu": 2, "acced": [2, 4, 9], "souhait": [2, 6, 7, 9], "tap": 2, "mention": [2, 4, 6, 9], "arbitrag": [2, 3, 8, 9, 11], "instruct": [2, 3, 4, 7, 8, 11], "Des": 2, "contr\u00f4l": [2, 8, 11], "effectu": [2, 4, 9], "emp\u00each": 2, "hor": 2, "del": 2, "cliqu": [2, 4, 5, 6, 7, 9], "re\u00e7u": 2, "pr\u00e9c\u00e9dent": [2, 4, 6, 8, 9], "recour": 2, "flech": 2, "retour": [2, 4, 8], "navig": [2, 8], "disponibl": [2, 4, 9], "ver": [2, 4, 9], "outil": [2, 4, 8], "recherch": [2, 9], "ppn": [2, 4, 5, 6, 8, 9], "tableau": [2, 11], "supervis": [2, 8], "manuel": 2, "chang": [2, 10], "votr": [2, 4, 5, 6, 7, 9], "pass": [2, 9], "r\u00e9serv": [2, 4], "droit": [2, 4, 9], "langu": [2, 11], "niveau": [2, 3, 9], "calcul": [2, 4, 8], "\u00e9ventuel": [2, 9], "afin": 2, "anomal": [2, 6, 9], "enregistr": [2, 6, 11], "alor": [2, 8], "email": [2, 9], "signal": [2, 6, 9], "messag": [2, 4, 6, 9], "alert": [2, 4, 6, 9], "couleur": 2, "bleu": 2, "ouvr": [2, 4], "formulair": [2, 4, 8, 9], "figur": [2, 5, 9], "ger": [2, 9], "respons": 2, "pr\u00e9vu": [2, 6, 9], "voir": [2, 4, 9], "loin": [2, 4], "demand": 2, "ajout": 2, "suppress": [2, 6, 9], "contact": [2, 6, 9], "inscrit": 2, "offic": 2, "supprim": [2, 4, 6, 9], "ordre": [3, 4, 8, 11], "sais": [3, 4, 7, 9, 11], "am\u00e9lior": [3, 4, 11], "rem\u00e9di": [3, 11], "r\u00f4l": [3, 11], "check": [3, 9, 11], "edit": [3, 11], "filtr": [3, 5, 8, 11], "fich": [3, 4, 5, 6, 8, 9, 11], "export": [3, 8, 11], "format": [3, 8, 11], "pdf": [3, 11], "appliquent": 3, "n\u00e9cessair": [3, 4, 5, 9], "instruit": [3, 6, 7, 9], "bout": 3, "chaqu": [3, 6, 9], "individuel": 3, "laiss": [3, 4, 9], "suspen": 3, "\u00e9tap": 4, "avant": [4, 6, 9], "fois": [4, 6, 9], "deviennent": 4, "pertinent": [4, 9], "s\u00e9lection": [4, 5, 6, 7], "puis": [4, 5, 6, 7, 9], "valid": [4, 5, 6, 7, 9], "r\u00e9sultat": [4, 5, 6, 8], "ressourc": [4, 5, 6, 7, 8, 9], "attent": [4, 8, 9], "restreindr": [4, 6], "obten": [4, 7, 8, 9], "encor": [4, 9], "modifi": [4, 6, 8, 9], "condit": [4, 9], "\u00e9tat": [4, 6, 9], "initial": [4, 9], "pouv": [4, 6], "exclur": 4, "d\u00e9roul": 4, "valeur": 4, "comment": [4, 9], "dev": 4, "1": [4, 5, 6, 8, 9], "4": [4, 9], "ressent": 4, "comm": [4, 6, 7, 9], "laquel": [4, 6], "viendront": 4, "agreg": 4, "enrich": 4, "tres": 4, "peu": 4, "2": [4, 9], "3": [4, 9], "interm\u00e9diair": 4, "suivr": 4, "arbitrair": 4, "En": [4, 9], "clef": 4, "primair": 4, "rattach": [4, 6, 11], "primary": 4, "key": 4, "pk": 4, "inform": [4, 6, 8], "util": [4, 8, 9], "cliquabl": [4, 9], "notic": 4, "pourr": [4, 9], "serv": [4, 9], "v\u00e9rifi": [4, 6, 9], "num\u00e9ros": 4, "prec": 4, "fin": [4, 6, 8, 9], "ains": [4, 6], "filiat": 4, "p\u00e9riscop": 4, "visualis": 4, "compar": 4, "discuss": 4, "mail": [4, 6, 9], "\u00e9chang": 4, "parcimoni": 4, "conseil": [4, 9], "destinatair": [4, 9], "principal": [4, 8, 9], "ceux": [4, 9], "info": 4, "instructeur": [4, 6, 9], "objet": 4, "port": [4, 6, 9], "corp": 4, "Vous": 4, "commentair": 4, "not": 4, "\u00e9larg": 4, "fen\u00eatr": [4, 7], "coin": 4, "nb": [4, 9], "connexion": 4, "t\u00e9moin": 4, "appara\u00eet": 4, "haut": [4, 7], "gauch": 4, "d\u00e9connect": 4, "crucial": 4, "don": [4, 8, 11], "local": 4, "annul": 4, "lign": [4, 6, 7, 9, 10], "apres": [4, 6, 9], "rappel": 4, "session": 4, "rien": [4, 6], "clic": 4, "lesquel": [4, 6, 7], "moment": [4, 6, 8], "d\u00e9j\u00e0": [4, 9], "D\u00e8s": 4, "x": 4, "activ": [4, 9], "envoi": [4, 6, 9], "revendiquent": 5, "posit": 5, "pris": [5, 6, 9], "aucun": [5, 9], "revendiqu": [5, 6, 9], "dessus": 5, "concurrent": 5, "revend": 5, "attendu": 5, "r\u00e9vis": 5, "\u00e9ch\u00e9": [5, 6, 9], "obtenu": [5, 6, 7, 8], "devient": 6, "d\u00e8s": [6, 9], "divers": [6, 9], "commenc": 6, "segment": 6, "continus": 6, "except": [6, 9], "pres": 6, "dessous": 6, "inser": 6, "nouvel": 6, "logiqu": 6, "chronolog": 6, "bord": [6, 11], "recouvrent": 6, "comprennent": 6, "contributric": 6, "pr\u00e9fer": 6, "d\u00e9fectu": 6, "term": 6, "cec": [6, 9], "problem": 6, "d\u00e9licat": 6, "solut": [6, 9], "relev": [6, 9], "renseign": [6, 9], "obligatoir": 6, "integr": [6, 9], "\u00e9vident": [6, 7, 8, 9], "contribu": [6, 9], "coch": 6, "n\u00e9": 6, "sp\u00e9cifi": 6, "compt": [6, 9], "propr": [6, 9], "distingu": [6, 9], "effet": [6, 9], "confirm": 6, "avoir": [6, 9], "soin": 6, "exactitud": 6, "recevr": 6, "avert": 6, "tour": [6, 9], "venu": [6, 9], "cycl": [6, 8, 9], "second": [6, 9], "v\u00e9rif": [6, 8, 9], "vis": [6, 9], "invalid": 6, "d\u00e9croiss": 6, "concour": 6, "mauv": 6, "quelqu": [6, 9], "chos": [6, 9], "optimal": 6, "cf": [6, 9], "regl": [6, 9], "facult": 6, "phas": 6, "el\u00e9ment": 6, "forc": 6, "v\u00e9rit": 6, "d\u00e9grad": 6, "sait": 6, "meilleur": 6, "rar": 6, "comprom": 6, "contenu": 6, "mesur": [6, 9], "physiqu": 6, "Leur": 6, "limit": [6, 9], "ailleur": 6, "couvrent": 6, "outrepass": 6, "comportent": 6, "interrompus": 6, "champ": [6, 9], "font": 6, "decr": 6, "ordon": 6, "chevauchent": 6, "correct": [6, 11], "lisibl": 6, "coh\u00e9rent": 6, "formul": 6, "proven": 6, "diff\u00e9rent": [6, 9], "footnot": 6, "Ou": 6, "trois": [6, 9], "De": [6, 11], "contr\u00f4leur": 6, "checker": 6, "fonction": [7, 8], "d\u00e9tient": 7, "ast\u00e9risqu": 7, "natur": 7, "rapport": [6, 7], "soign": 7, "propos": [7, 8, 10], "instant": 8, "d\u00e9doubl": 8, "tel": [8, 9], "origin": [8, 10, 11], "\u00e9cart": 8, "compr": [6, 8, 9], "donnent": 8, "encour": 8, "exclus": [8, 9], "occurrent": 8, "etc": [8, 9], "d\u00e9faut": [8, 9], "affich": 8, "alphabet": 8, "perm": 8, "d\u00e9di": 8, "pr\u00e9vaut": 8, "ip": 8, "client": 8, "connect": 8, "about": [8, 9], "csv": [8, 9], "_typedeliste_rcr_autrercr": 8, "nombr": [8, 9], "24": [], "typedel": 8, "signif": 8, "rk": 8, "xrk": 8, "mrk": 8, "arb": 8, "xarb": 8, "arb1": 8, "arb0": 8, "x1arb": 8, "x0arb": 8, "instr": 8, "xinstr": 8, "instr1b": 8, "instrxb": 8, "instr1nb": 8, "instrxnb": 8, "re": 8, "resm": 8, "resnm": 8, "xmoth": 8, "xnomoth": 8, "excl": 8, "faulty": 8, "erron": [8, 9], "all": 8, "originel": 8, "puiss": [8, 9], "entier": [8, 9], "clair": [8, 9], "fichi": [8, 9, 10], "incomplet": [8, 10], "requ\u00eat": 8, "trop": 8, "volumin": 8, "serveur": 8, "retourn": 8, "cod": [8, 9], "erreur": 8, "bandeau": [], "ent\u00eat": [], "conna\u00eetr": [], "rebond": [], "lectur": [8, 9], "popul": 9, "utilitair": 9, "manipul": 9, "recommandon": 9, "brows": 9, "for": 9, "sqlit": 9, "tabl": 9, "http": 9, "sqlitebrows": 9, "org": 9, "contient": [9, 11], "epl_replymail": 9, "django": 9, "situ": 9, "9": 9, "epl_bddadmin": 9, "epl_exclu": 9, "epl_featur": 9, "epl_instruct": 9, "epl_itemrecord": 9, "epl_library": 9, "epl_proj_setting": 9, "epl_project": 9, "epl_utilis": 9, "system": 9, "interfac": 9, "plac": 9, "exemplair": 9, "fourn": 9, "\u00e9labor": 9, "racin": 9, "txt": 9, "voic": 9, "quoi": [9, 11], "superflu": 9, "dat": 9, "vid": 9, "descr": 9, "initialis": 9, "recens": 9, "coupl": 9, "permiss": 9, "pr\u00e9vaudr": 9, "outr": 9, "suffix": 9, "agiss": 9, "no": 9, "reply": 9, "sit": [9, 11], "respect": 9, "deuxiem": 9, "d\u00e9part": 9, "user": 9, "superus": 9, "statut": 9, "is_superus": 9, "rest": 9, "peupl": 9, "synchronis": 9, "cr\u00e9ation": 9, "vu": 9, "admins_adm": 9, "lib_adm": 9, "selectbdd": 9, "hom": 9, "globadm": 9, "multipl": 9, "permettent": 9, "prendr": 9, "facil": [9, 10], "consist": 9, "regroup": 9, "argument": 9, "s\u00e9par": 9, "tir": 9, "r\u00e9el": 9, "art": 9, "bnu": 9, "doubl": 9, "aachen": 9, "kunstblatt": 9, "03963115x": 9, "issn": 9, "05150612": 9, "histor": 9, "1906": 9, "9999": 9, "bh": 9, "16": 9, "37": 9, "501": 9, "883": 9, "etat": 9, "vol": 9, "10": 9, "1916": 9, "17": 9, "1958": 9, "18": 9, "1959": 9, "26": [8, 9], "1962": 9, "34": 9, "1967": 9, "38": 9, "1969": 9, "47": 9, "1976": 9, "77": 9, "1968": 9, "relat": 9, "devront": 9, "cr\u00e9": 9, "aut": 9, "altern": 9, "674821001": 9, "674821001a": 9, "674821001b": 9, "periscop": 9, "affect": 9, "tant": 9, "rcr": 9, "14": 9, "mar": 9, "2023": 9, "privil\u00e9gi": 9, "ext\u00e9rieur": 9, "toutefois": 9, "pr\u00e9alabl": 9, "mod": 9, "priv": 9, "d\u00e9sactiv": 9, "idem": 9, "r\u00e9part": 9, "travail": 9, "magasin": 9, "parit": 9, "pair": 9, "ellips": 9, "partag": 9, "scind": 9, "occup": 9, "parametr": 9, "d\u00e9tail": 9, "lir": 9, "g\u00e9ner": 9, "noreply": 9, "replymail": 9, "gestionnair": 9, "transmet": 9, "flambeau": 9, "extract": 9, "rel\u00e8vent": 9, "intitul": 9, "r\u00e9sum": 9, "pourront": 9, "d\u00e9taillon": 9, "ad": 9, "hoc": 9, "n\u00e9cessitent": 9, "expliqu": 9, "d\u00e9taill": 9, "cadr": 9, "r\u00e9initialis": 9, "recommand": [6, 9], "d\u00e9fin": 9, "d\u00e9coch": 9, "pr\u00e9d\u00e9fin": 9, "restaur": 9, "offert": 9, "recevront": 9, "compris": 9, "surven": 9, "triplon": 9, "occas": 9, "re\u00e7oivent": 9, "avis": 9, "restreint": 9, "passag": 9, "public": 9, "occasion": 9, "actif": 9, "quand": 9, "incoh\u00e9rent": 9, "devr": 9, "incrimin": 9, "host": 9, "current_status": 9, "crois": [8, 9], "sid": [], "reper": [], "r\u00e9curs": 9, "attribu": 9, "itemrecord": 9, "6": 9, "0": 9, "admin": [], "Cet": 9, "certain": 9, "processus": 9, "5": 9, "conform": 9, "potentiel": [], "ensuit": [], "1er": [], "fauss": [], "caus": [], "dysfonction": [], "g\u00ean": [], "dout": [], "intempest": 9, "url": 9, "rejet": 9, "soumis": 9, "pert": 9, "soupl": 9, "pbkdf2": 9, "doc": 9, "djangoproject": 9, "com": 9, "topic": 9, "auth": 9, "password": 9, "sensibl": 9, "n\u00e9gat": 9, "r\u00e9orient": 9, "dehor": 9, "paged": [], "pied": 9, "renvoient": 9, "syst\u00e9mat": 9, "proteg": 9, "contr": 9, "robot": 9, "captch": 9, "ultralight": 9, "attaqu": 9, "malveil": 9, "appropri": 9, "cach": 9, "del\u00e0": 9, "webmaster": 9, "distinct": 9, "gettext": 10, "franc": 10, "actuel": 10, "exp\u00e9rimental": 10, "anglais": 10, "allemand": 10, "extens": 10, "assez": 10, "puisqu": 10, "repos": 10, "fournitur": 10, "classiqu": 10, "po": 10, "compr\u00e9hensibl": 10, "traducteur": 10, "compil": 10, "command": 10, "binair": 10, "mo": 10, "bienvenu": 10, "e\u02c8plu\u02d0r\u026ab\u028a": 11, "jet": 11, "coup": 11, "oeil": 11, "strasbourgeois": 11, "pr\u00e9ambul": 11, "Que": 11, "guid": 11, "entraid": 11, "parl": 11, "aspect": 11, "jurid": 11, "r\u00e9utilis": 11, "r\u00e9glag": 11, "group": 11, "webmast": 11, "s\u00e9cur": 11, "confidential": 11, "fa\u00e7on": 9, "corrig": 9, "bouton": 9, "recalcul": 9, "vaut": 9, "carr": 9, "apparaissent": 9, "\u00eate": 9, "redirig": 9, "savoir": 9, "cross": 8, "avanc": 8, "multicriter": 11, "constat": 6, "circonstanci": 6, "intervent": 6, "exp\u00e9diteur": 6}, "objects": {}, "objtypes": {}, "objnames": {}, "titleterms": {"pr\u00e9ambul": 0, "origin": 0, "Que": 0, "contient": 0, "guid": 0, "entraid": 0, "pr\u00e9sent": [1, 7], "g\u00e9n\u00e9ral": [1, 2, 9], "De": 1, "quoi": 1, "parl": 1, "princip": 1, "aspect": 1, "jurid": 1, "r\u00e9utilis": 1, "don": [1, 9], "pag": 2, "accueil": 2, "projet": [2, 8, 9], "fonctionnal": [3, 8], "position": 4, "arbitrag": 5, "instruct": [6, 9], "sais": 6, "ordre": 6, "am\u00e9lior": 6, "rem\u00e9di": 6, "r\u00f4l": [6, 9], "check": 6, "edit": 7, "list": [7, 8], "r\u00e9sult": 7, "filtr": 7, "fich": 7, "export": 7, "format": 7, "pdf": 7, "suiv": 8, "La": 8, "tout": 8, "recherch": [8, 11], "dan": 8, "typ": 8, "disponibl": 8, "crois": [], "tableau": 8, "bord": 8, "administr": 9, "r\u00e9glag": 9, "bas": 9, "import": 9, "utilis": 9, "group": 9, "instanc": 9, "webmast": 9, "gestion": 9, "correct": 9, "enregistr": 9, "rattach": 9, "contr\u00f4l": 9, "s\u00e9cur": 9, "authentif": 9, "confidential": 9, "langu": 10, "document": 11, "eplouribouss": 11, "sommair": 11, "mot": 11, "multicriter": 8}, "envversion": {"sphinx.domains.c": 2, "sphinx.domains.changeset": 1, "sphinx.domains.citation": 1, "sphinx.domains.cpp": 8, "sphinx.domains.index": 1, "sphinx.domains.javascript": 2, "sphinx.domains.math": 2, "sphinx.domains.python": 3, "sphinx.domains.rst": 2, "sphinx.domains.std": 2, "sphinx": 57}, "alltitles": {"Pr\u00e9ambule": [[0, "preambule"]], "Origine": [[0, "origine"]], "Que contient ce guide\u00a0?": [[0, "que-contient-ce-guide"]], "Entraide": [[0, "entraide"]], "Pr\u00e9sentation g\u00e9n\u00e9rale": [[1, "presentation-generale"]], "De quoi parle-t-on ?": [[1, "de-quoi-parle-t-on"]], "Principes": [[1, "principes"]], "Aspects juridiques (R\u00e9utilisation des donn\u00e9es)": [[1, "aspects-juridiques-reutilisation-des-donnees"]], "Pages d\u2019accueil": [[2, "pages-d-accueil"]], "Page d\u2019accueil g\u00e9n\u00e9rale": [[2, "page-d-accueil-generale"]], "Page d\u2019accueil d\u2019un projet": [[2, "page-d-accueil-d-un-projet"]], "Fonctionnalit\u00e9s": [[3, "fonctionnalites"]], "Positionnement": [[4, "positionnement"]], "Arbitrage": [[5, "arbitrage"]], "Edition": [[7, "edition"]], "Liste des r\u00e9sultantes": [[7, "liste-des-resultantes"]], "Filtre": [[7, "filtre"]], "Pr\u00e9sentation des fiches": [[7, "presentation-des-fiches"]], "Export au format pdf": [[7, "export-au-format-pdf"]], "Langues": [[10, "langues"]], "Documentation d\u2019eplouribousse": [[11, "documentation-d-eplouribousse"]], "Sommaire": [[11, "sommaire"]], "Recherche par mots": [[11, "recherche-par-mots"]], "Administration": [[9, "administration"]], "R\u00e9glages des bases de donn\u00e9es (important)": [[9, "reglages-des-bases-de-donnees-important"]], "Utilisateurs et groupes": [[9, "utilisateurs-et-groupes"]], "R\u00f4le de l\u2019administrateur g\u00e9n\u00e9ral de l\u2019instance (webmaster)": [[9, "role-de-ladministrateur-general-de-linstance-webmaster"]], "R\u00f4les des administrateurs de projet (= administrateurs de la base de donn\u00e9es du projet)": [[9, "roles-des-administrateurs-de-projet-administrateurs-de-la-base-de-donnees-du-projet"]], "Gestion des r\u00e9glages du projet": [[9, "gestion-des-reglages-du-projet"]], "Correction des enregistrements (instructions et rattachements)": [[9, "correction-des-enregistrements-instructions-et-rattachements"]], "Contr\u00f4les": [[9, "controles"]], "S\u00e9curit\u00e9": [[9, "securite"]], "Authentification": [[9, "authentification"]], "Confidentialit\u00e9": [[9, "confidentialite"]], "Suivi de projet": [[8, "suivi-de-projet"]], "La fonctionnalit\u00e9 \u00ab\u00a0tout\u00a0\u00bb": [[8, "la-fonctionnalite-tout"]], "Recherche dans les listes": [[8, "recherche-dans-les-listes"]], "listes types disponibles": [[8, "id1"]], "Recherche multicrit\u00e8re": [[8, "recherche-multicritere"]], "Tableau de bord": [[8, "tableau-de-bord"]], "Instruction": [[6, "instruction"]], "Saisie": [[6, "saisie"]], "Ordre d\u2019am\u00e9lioration": [[6, "ordre-damelioration"]], "Rem\u00e9diation": [[6, "remediation"]], "R\u00f4le du \u201cchecker\u201d": [[6, "role-du-checker"]]}, "indexentries": {}})

diff --git a/static/doc/html/3_3.html b/static/doc/html/3_3.html
@@ -67,7 +67,7 @@
 <p>Le cas échéant, un message alerte que la ligne indiquée ne peut pas être supprimée.</p>
 <p>Une fois tous les éléments reliés saisis, indiquez que vous avez fini en cliquant sur le lien prévu à cet effet, puis confirmez en cochant et validant après avoir bien pris soin de vérifier l’exactitude des instructions :</p>
 <img alt="_images/instr_end.png" src="_images/instr_end.png" />
-<p>Le contact <a class="footnote-reference brackets" href="#f1" id="id1" role="doc-noteref"><span class="fn-bracket">[</span>1<span class="fn-bracket">]</span></a> de la bibliothèque suivante recevra automatiquement un message l’avertissant que son tour est venu d’instruire. L’instruction se fait en deux cycles, le premier pour les éléments reliés, le second pour les éléments non reliés. A la fin de chaque cycle, le vérificateur porte son visa ou invalide la fiche. Dans ce dernier cas, l’administrateur de la base de données sera informé :</p>
+<p>Le contact <a class="footnote-reference brackets" href="#f1" id="id1" role="doc-noteref"><span class="fn-bracket">[</span>1<span class="fn-bracket">]</span></a> de la bibliothèque suivante recevra automatiquement un message l’avertissant que son tour est venu d’instruire. L’instruction se fait en deux cycles, le premier pour les éléments reliés, le second pour les éléments non reliés. A la fin de chaque cycle, le vérificateur porte son visa ou invalide la fiche. Dans ce dernier cas, il peut préciser les anomalies constatées : un rapport circonstancié sera envoyé par mail à l’administrateur pour intervention et en copie pour information aux instructeurs des bibliothèques concernées ainsi qu’aux vérificateurs, y compris l’expéditeur :</p>
 <img alt="_images/instr_checker.png" src="_images/instr_checker.png" />
 </section>
 <section id="ordre-damelioration">

diff --git a/epl/templates/epl/instrtodo.html b/epl/templates/epl/instrtodo.html
@@ -43,6 +43,14 @@
           <!-- <b><font color= #ff0004 >(User : Anonymous)</font></b> -->
           <!-- (User : Anonymous) -->
           {% endif %}
+        
+        {% if messages %}
+        <ul class="messages">
+            {% for message in messages %}
+            <center><font color= #0000FF ><p>{{ message }}</p></font></center>
+            {% endfor %}
+        </ul>
+        {% endif %}
           <h2>{{ libname }} - {% trans "Instructions" %} - {% trans "toutes formes, tous rangs" %}</h2>
 
           <p>{% if lid != "999999999" %}{% if size > 0 %}<button><b><a href="/{{ bdd }}/csv/{{ lid }}/None/{{ sidlist }}/30/{{ size }}" title="(Avec les autres rattachements)">{% trans "liste csv" %}</a></b></button> ~ {% endif %}{% endif %}<b>{% trans "Nombre de ressources concernées" %} :</b> {{ size }}

diff --git a/epl/templates/epl/endinstruction.html b/epl/templates/epl/endinstruction.html
@@ -121,9 +121,11 @@
     </div>
         {% if lid == '999999999' %}
         <div id="content">
+            <p><i>{% trans "Validez directement si ok, sinon indiquez les n° de lignes défectueuses dans la ou les fenêtres de saisie appropriées puis validez." %}</i></p>
           <form method="post">{% csrf_token %}
           <div>
-          <p>{{ checkerform }}</p>
+<!--          <p>{{ checkerform }}</p>-->
+          <p>{{ ctrl.as_ul }}</p>              
           <p><input type="submit" value="{% trans "Valider" %}"></p>
           </div>
           </form>

diff --git a/static/doc/html/search.html b/static/doc/html/search.html
@@ -2,7 +2,7 @@
 
 <html lang="fr">
   <head>
-      <!-- Matomo -->
+<!-- Matomo -->
 <script>
   var _paq = window._paq = window._paq || [];
   /* tracker methods like "setCustomDimension" should be called before "trackPageView" */
